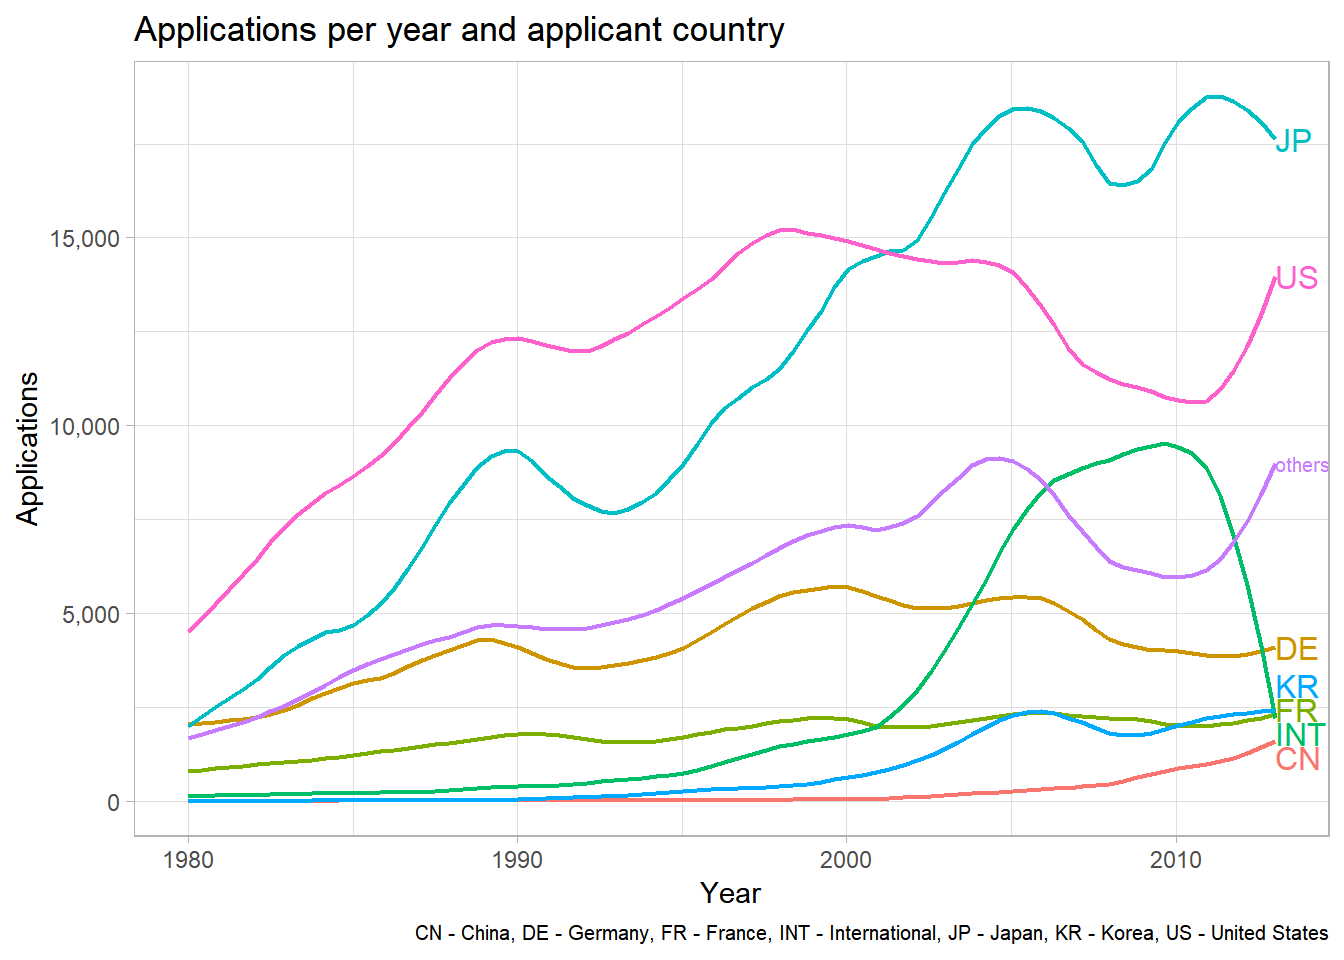
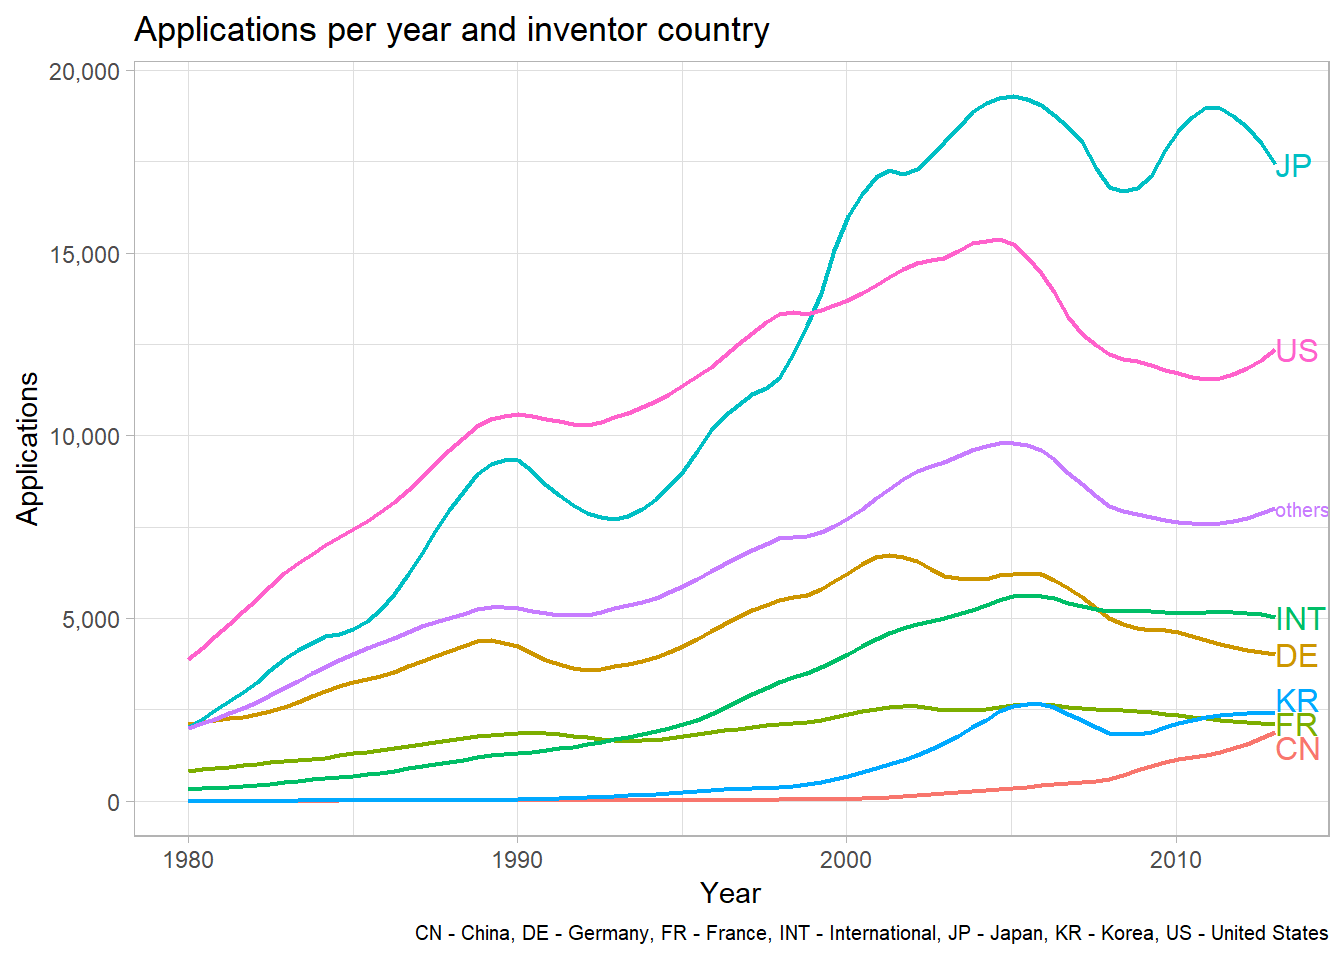
update pool size post and script

diff --git a/public/2018/10/26/internationality-in-innovation-networks-and-the-size-of-domestic-knowledge-pools/index.html b/public/2018/10/26/internationality-in-innovation-networks-and-the-size-of-domestic-knowledge-pools/index.html
@@ -6,8 +6,8 @@
 <meta name="generator" content="Hugo 0.45.1" />
 
 
-<title>Internationality in Innovation Networks and the Size of Domestic Knowledge Pools - tf datalab</title>
-<meta property="og:title" content="Internationality in Innovation Networks and the Size of Domestic Knowledge Pools - tf datalab">
+<title>Internationality and the Role of Domestic Knowledge Pools - tf datalab</title>
+<meta property="og:title" content="Internationality and the Role of Domestic Knowledge Pools - tf datalab">
 
 
 
@@ -16,6 +16,11 @@
 
 
 
+
+
+
+
+<link href='//cdn.bootcss.com/highlight.js/9.11.0/styles/github.min.css' rel='stylesheet' type='text/css' />
 
 
 
@@ -52,17 +57,40 @@
 
   <article class="article">
     
-    <span class="article-duration">0 min read</span>
+    <span class="article-duration">2 min read</span>
     
 
-    <h1 class="article-title">Internationality in Innovation Networks and the Size of Domestic Knowledge Pools</h1>
+    <h1 class="article-title">Internationality and the Role of Domestic Knowledge Pools</h1>
 
     
     <span class="article-date">2018/10/26</span>
     
 
     <div class="article-content">
-      
+      <div id="the-role-of-domestic-knowledge-pools" class="section level1">
+<h1>The Role of Domestic Knowledge Pools</h1>
+<p>In a previous post (link here), I hypothesized that internationality in innovation networks is negatively related to the size of the domestic knowledge pool. Countries with a small domestic knowledge pools can be expected to depend on foreign co-operation in many areas of research, whereas countries with large innovative capacities probably have many of the necessary innovative resource within national borders. This post aims to substantiate this logic with some quantitative arguments.</p>
+<div id="how-to-measure-the-size-of-knowledge-pools" class="section level3">
+<h3>How to measure the size of knowledge pools?</h3>
+<p>I assume that the number of annual patent applications is a good measure of a the size of a country’s knowledge pool in a given year. Thus, the independent variable in the subsequent simple linear regression analysis is the count of patent applications per year and per country. Naturally, this is not completely accurate, as countries have different propensities to patent, but the patent count should provide a reasonable estimator. Furthermore, the data was reduced to contain only those countries with a significant patent output. To do this, all countries with less than 20 patent applications in the year 2013 were excluded. 2013 data was chosen to determine which countries to include in the analysis, as it is relatively recent and relatively complete (unlike data for the most recent years).</p>
+<p>For simplicity, only inventor data is considered here. The knowledge pool should be best represented by the inventors residing in a given country, not the companies that operate in the country.</p>
+</div>
+</div>
+<div id="analysis" class="section level1">
+<h1>Analysis</h1>
+<p>The histogram of patent application counts per country in the year 2013 is strongly right-skewed. There a many countries with small patent output and very few countries with very large patent output.</p>
+<pre class="r"><code>library(ggplot2)
+#dispdata is a previously creates dataframe that contains patent count and dispersion data
+attach(dispdata)
+
+qplot(count_inv[year == 2013], geom = &quot;histogram&quot;, binwidth = 500, col = I(&quot;black&quot;),
+      xlab = &quot;patent applications in 2013&quot;, ylab = &quot;count&quot;)</code></pre>
+<p><img src="/post/2018-10-26-internationality-in-innovation-networks-and-the-size-of-domestic-knowledge-pools_files/figure-html/histogram-1.png" width="800px" /> The logarithmic transformation of the patent count approximates normal distribution, which is more suitable for the linear regression analysis.</p>
+<pre class="r"><code>qplot(log(count_inv[year == 2013]), geom = &quot;histogram&quot;, binwidth = 1, col = I(&quot;black&quot;),
+      xlab = &quot;log patent applications in 2013&quot;, ylab = &quot;count&quot;)</code></pre>
+<p><img src="/post/2018-10-26-internationality-in-innovation-networks-and-the-size-of-domestic-knowledge-pools_files/figure-html/log-histogram-1.png" width="800px" /></p>
+</div>
+
     </div>
   </article>
 
@@ -84,6 +112,18 @@
 
     </div>
     
+
+
+
+<script src="//cdn.bootcss.com/highlight.js/9.11.0/highlight.min.js"></script>
+
+
+
+<script src="//cdn.bootcss.com/highlight.js/9.11.0/languages/r.min.js"></script>
+<script src="//cdn.bootcss.com/highlight.js/9.11.0/languages/yaml.min.js"></script>
+<script>hljs.configure({languages: []}); hljs.initHighlightingOnLoad();</script>
+
+
 
     
 

diff --git a/content/post/2018-10-26-internationality-in-innovation-networks-and-the-size-of-domestic-knowledge-pools.html b/content/post/2018-10-26-internationality-in-innovation-networks-and-the-size-of-domestic-knowledge-pools.html
@@ -1,6 +1,5 @@
 ---
-title: Internationality in Innovation Networks and the Size of Domestic Knowledge
-  Pools
+title: Internationality and the Role of Domestic Knowledge Pools
 author: TF
 date: '2018-10-26'
 slug: internationality-in-innovation-networks-and-the-size-of-domestic-knowledge-pools
@@ -12,4 +11,26 @@ bibliography: references.bib
 
 
 
+<div id="the-role-of-domestic-knowledge-pools" class="section level1">
+<h1>The Role of Domestic Knowledge Pools</h1>
+<p>In a previous post (link here), I hypothesized that internationality in innovation networks is negatively related to the size of the domestic knowledge pool. Countries with a small domestic knowledge pools can be expected to depend on foreign co-operation in many areas of research, whereas countries with large innovative capacities probably have many of the necessary innovative resource within national borders. This post aims to substantiate this logic with some quantitative arguments.</p>
+<div id="how-to-measure-the-size-of-knowledge-pools" class="section level3">
+<h3>How to measure the size of knowledge pools?</h3>
+<p>I assume that the number of annual patent applications is a good measure of a the size of a country’s knowledge pool in a given year. Thus, the independent variable in the subsequent simple linear regression analysis is the count of patent applications per year and per country. Naturally, this is not completely accurate, as countries have different propensities to patent, but the patent count should provide a reasonable estimator. Furthermore, the data was reduced to contain only those countries with a significant patent output. To do this, all countries with less than 20 patent applications in the year 2013 were excluded. 2013 data was chosen to determine which countries to include in the analysis, as it is relatively recent and relatively complete (unlike data for the most recent years).</p>
+<p>For simplicity, only inventor data is considered here. The knowledge pool should be best represented by the inventors residing in a given country, not the companies that operate in the country.</p>
+</div>
+</div>
+<div id="analysis" class="section level1">
+<h1>Analysis</h1>
+<p>The histogram of patent application counts per country in the year 2013 is strongly right-skewed. There a many countries with small patent output and very few countries with very large patent output.</p>
+<pre class="r"><code>library(ggplot2)
+#dispdata is a previously creates dataframe that contains patent count and dispersion data
+attach(dispdata)
 
+qplot(count_inv[year == 2013], geom = &quot;histogram&quot;, binwidth = 500, col = I(&quot;black&quot;),
+      xlab = &quot;patent applications in 2013&quot;, ylab = &quot;count&quot;)</code></pre>
+<p><img src="/post/2018-10-26-internationality-in-innovation-networks-and-the-size-of-domestic-knowledge-pools_files/figure-html/histogram-1.png" width="800px" /> The logarithmic transformation of the patent count approximates normal distribution, which is more suitable for the linear regression analysis.</p>
+<pre class="r"><code>qplot(log(count_inv[year == 2013]), geom = &quot;histogram&quot;, binwidth = 1, col = I(&quot;black&quot;),
+      xlab = &quot;log patent applications in 2013&quot;, ylab = &quot;count&quot;)</code></pre>
+<p><img src="/post/2018-10-26-internationality-in-innovation-networks-and-the-size-of-domestic-knowledge-pools_files/figure-html/log-histogram-1.png" width="800px" /></p>
+</div>

diff --git a/public/2018/07/09/patent-analysis-using-r/index.html b/public/2018/07/09/patent-analysis-using-r/index.html
@@ -20,7 +20,7 @@
 
 
 
-<link href='//cdn.bootcss.com/highlight.js/9.11.0/styles/atom-one-dark.min.css' rel='stylesheet' type='text/css' />
+<link href='//cdn.bootcss.com/highlight.js/9.11.0/styles/github.min.css' rel='stylesheet' type='text/css' />
 
 
 
@@ -89,7 +89,7 @@ ggplot(annual_totals[annual_totals$year %in% 1975:2016, ], aes(year, application
   scale_y_continuous(labels = function(x) format(x, big.mark = &quot;,&quot;, scientific = FALSE)) +
   scale_x_continuous(breaks = seq(1975, 2015, 5)) +
   theme_light()</code></pre>
-<p><img src="/post/2018-07-09-patent-analysis-using-r_files/figure-html/unnamed-chunk-3-1.png" width="800px" /></p>
+<p><img src="/post/2018-07-09-patent-analysis-using-r_files/figure-html/annual%20total%20applications%20line%20graph-1.png" width="800px" /></p>
 <p>Overall, TPF applications over time exhibit a steep increase from the late 70s until the peak of about 60,000 applications in 2006. The following slump may be explained by the global financial crisis of 2007/2008, which put pressure on research budgets. Application counts fall dramatically from 2013 onward. This is explained by the time it takes for patent applications to be registered in the TPF database (applications only become TPFs once they have been filed with the three major patent offices). Additionally, the date of the earliest application was used here to determine the year.</p>
 </div>
 <div id="country-specific-applications-over-time" class="section level3">
@@ -106,10 +106,10 @@ ggappcountries &lt;- ggplot(ann_counts_big[ann_counts_big$year %in% 1980:2013, ]
   scale_y_continuous(labels = function(x) format(x, big.mark = &quot;,&quot;, scientific = FALSE)) +
   theme_light() + theme(plot.caption = element_text(size = 7.5))
 direct.label(ggappcountries, &quot;last.qp&quot;)</code></pre>
-<p><img src="/post/2018-07-09-patent-analysis-using-r_files/figure-html/unnamed-chunk-5-1.png" width="800px" /></p>
+<p><img src="/post/2018-07-09-patent-analysis-using-r_files/figure-html/unnamed-chunk-4-1.png" width="800px" /></p>
 <p>Countries to be subsumed in the ‘others’ category were selected by considering application counts in the year 2013. This resulted in Japan, the US, Germany, Korea, France, China, and the international category being the strongest applicants. South Korea and China are up-and-coming candidates, while the dominance of Japan and the US appears to be undisputed. International applications experienced a steep rise in the 2000s and an equally steep fall thereafter. Possibly international applications take longer to become registered as TPFs than single-country applications?</p>
 <p>Using almost the same code as above, the graph for TPF applications per inventor country can be created. The result is very similar except for international applications. Apparently the growth in international inventor teams was not as large as the growth in international applicant cooperation. One may hypothesize that multinational corporations from the most innovative countries still tend to primarily employ researchers from their home-country.</p>
-<p><img src="/post/2018-07-09-patent-analysis-using-r_files/figure-html/unnamed-chunk-6-1.png" width="800px" /></p>
+<p><img src="/post/2018-07-09-patent-analysis-using-r_files/figure-html/unnamed-chunk-5-1.png" width="800px" /></p>
 </div>
 
     </div>

diff --git a/content/post/2018-07-09-patent-analysis-using-r.html b/content/post/2018-07-09-patent-analysis-using-r.html
@@ -1,5 +1,4 @@
 ---
-draft: yes
 title: Patent Analysis Using R
 author: TF
 date: '2018-07-09'
@@ -33,7 +32,7 @@ ggplot(annual_totals[annual_totals$year %in% 1975:2016, ], aes(year, application
   scale_y_continuous(labels = function(x) format(x, big.mark = &quot;,&quot;, scientific = FALSE)) +
   scale_x_continuous(breaks = seq(1975, 2015, 5)) +
   theme_light()</code></pre>
-<p><img src="/post/2018-07-09-patent-analysis-using-r_files/figure-html/unnamed-chunk-3-1.png" width="800px" /></p>
+<p><img src="/post/2018-07-09-patent-analysis-using-r_files/figure-html/annual%20total%20applications%20line%20graph-1.png" width="800px" /></p>
 <p>Overall, TPF applications over time exhibit a steep increase from the late 70s until the peak of about 60,000 applications in 2006. The following slump may be explained by the global financial crisis of 2007/2008, which put pressure on research budgets. Application counts fall dramatically from 2013 onward. This is explained by the time it takes for patent applications to be registered in the TPF database (applications only become TPFs once they have been filed with the three major patent offices). Additionally, the date of the earliest application was used here to determine the year.</p>
 </div>
 <div id="country-specific-applications-over-time" class="section level3">
@@ -50,8 +49,8 @@ ggappcountries &lt;- ggplot(ann_counts_big[ann_counts_big$year %in% 1980:2013, ]
   scale_y_continuous(labels = function(x) format(x, big.mark = &quot;,&quot;, scientific = FALSE)) +
   theme_light() + theme(plot.caption = element_text(size = 7.5))
 direct.label(ggappcountries, &quot;last.qp&quot;)</code></pre>
-<p><img src="/post/2018-07-09-patent-analysis-using-r_files/figure-html/unnamed-chunk-5-1.png" width="800px" /></p>
+<p><img src="/post/2018-07-09-patent-analysis-using-r_files/figure-html/unnamed-chunk-4-1.png" width="800px" /></p>
 <p>Countries to be subsumed in the ‘others’ category were selected by considering application counts in the year 2013. This resulted in Japan, the US, Germany, Korea, France, China, and the international category being the strongest applicants. South Korea and China are up-and-coming candidates, while the dominance of Japan and the US appears to be undisputed. International applications experienced a steep rise in the 2000s and an equally steep fall thereafter. Possibly international applications take longer to become registered as TPFs than single-country applications?</p>
 <p>Using almost the same code as above, the graph for TPF applications per inventor country can be created. The result is very similar except for international applications. Apparently the growth in international inventor teams was not as large as the growth in international applicant cooperation. One may hypothesize that multinational corporations from the most innovative countries still tend to primarily employ researchers from their home-country.</p>
-<p><img src="/post/2018-07-09-patent-analysis-using-r_files/figure-html/unnamed-chunk-6-1.png" width="800px" /></p>
+<p><img src="/post/2018-07-09-patent-analysis-using-r_files/figure-html/unnamed-chunk-5-1.png" width="800px" /></p>
 </div>

diff --git a/public/categories/r/index.html b/public/categories/r/index.html
@@ -58,14 +58,14 @@
     <h2 class="archive-title">2018</h2>
     
     <article class="archive-item">
-      <a href="/2018/10/26/internationality-in-innovation-networks-and-the-size-of-domestic-knowledge-pools/" class="archive-item-link">Internationality in Innovation Networks and the Size of Domestic Knowledge Pools</a>
+      <a href="/2018/10/26/internationality-in-innovation-networks/" class="archive-item-link">Internationality in Innovation Networks</a>
       <span class="archive-item-date">
         2018/10/26
       </span>
     </article>
     
     <article class="archive-item">
-      <a href="/2018/10/26/internationality-in-innovation-networks/" class="archive-item-link">Internationality in Innovation Networks</a>
+      <a href="/2018/10/26/internationality-in-innovation-networks-and-the-size-of-domestic-knowledge-pools/" class="archive-item-link">Internationality and the Role of Domestic Knowledge Pools</a>
       <span class="archive-item-date">
         2018/10/26
       </span>

diff --git a/public/index.html b/public/index.html
@@ -59,14 +59,14 @@
     <h2 class="archive-title">2018</h2>
     
     <article class="archive-item">
-      <a href="/2018/10/26/internationality-in-innovation-networks-and-the-size-of-domestic-knowledge-pools/" class="archive-item-link">Internationality in Innovation Networks and the Size of Domestic Knowledge Pools</a>
+      <a href="/2018/10/26/internationality-in-innovation-networks/" class="archive-item-link">Internationality in Innovation Networks</a>
       <span class="archive-item-date">
         2018/10/26
       </span>
     </article>
     
     <article class="archive-item">
-      <a href="/2018/10/26/internationality-in-innovation-networks/" class="archive-item-link">Internationality in Innovation Networks</a>
+      <a href="/2018/10/26/internationality-in-innovation-networks-and-the-size-of-domestic-knowledge-pools/" class="archive-item-link">Internationality and the Role of Domestic Knowledge Pools</a>
       <span class="archive-item-date">
         2018/10/26
       </span>

diff --git a/public/post/index.html b/public/post/index.html
@@ -58,14 +58,14 @@
     <h2 class="archive-title">2018</h2>
     
     <article class="archive-item">
-      <a href="/2018/10/26/internationality-in-innovation-networks-and-the-size-of-domestic-knowledge-pools/" class="archive-item-link">Internationality in Innovation Networks and the Size of Domestic Knowledge Pools</a>
+      <a href="/2018/10/26/internationality-in-innovation-networks/" class="archive-item-link">Internationality in Innovation Networks</a>
       <span class="archive-item-date">
         2018/10/26
       </span>
     </article>
     
     <article class="archive-item">
-      <a href="/2018/10/26/internationality-in-innovation-networks/" class="archive-item-link">Internationality in Innovation Networks</a>
+      <a href="/2018/10/26/internationality-in-innovation-networks-and-the-size-of-domestic-knowledge-pools/" class="archive-item-link">Internationality and the Role of Domestic Knowledge Pools</a>
       <span class="archive-item-date">
         2018/10/26
       </span>

diff --git a/public/2018/10/26/internationality-in-innovation-networks/index.html b/public/2018/10/26/internationality-in-innovation-networks/index.html
@@ -20,7 +20,7 @@
 
 
 
-<link href='//cdn.bootcss.com/highlight.js/9.11.0/styles/atom-one-dark.min.css' rel='stylesheet' type='text/css' />
+<link href='//cdn.bootcss.com/highlight.js/9.11.0/styles/github.min.css' rel='stylesheet' type='text/css' />
 
 
 
